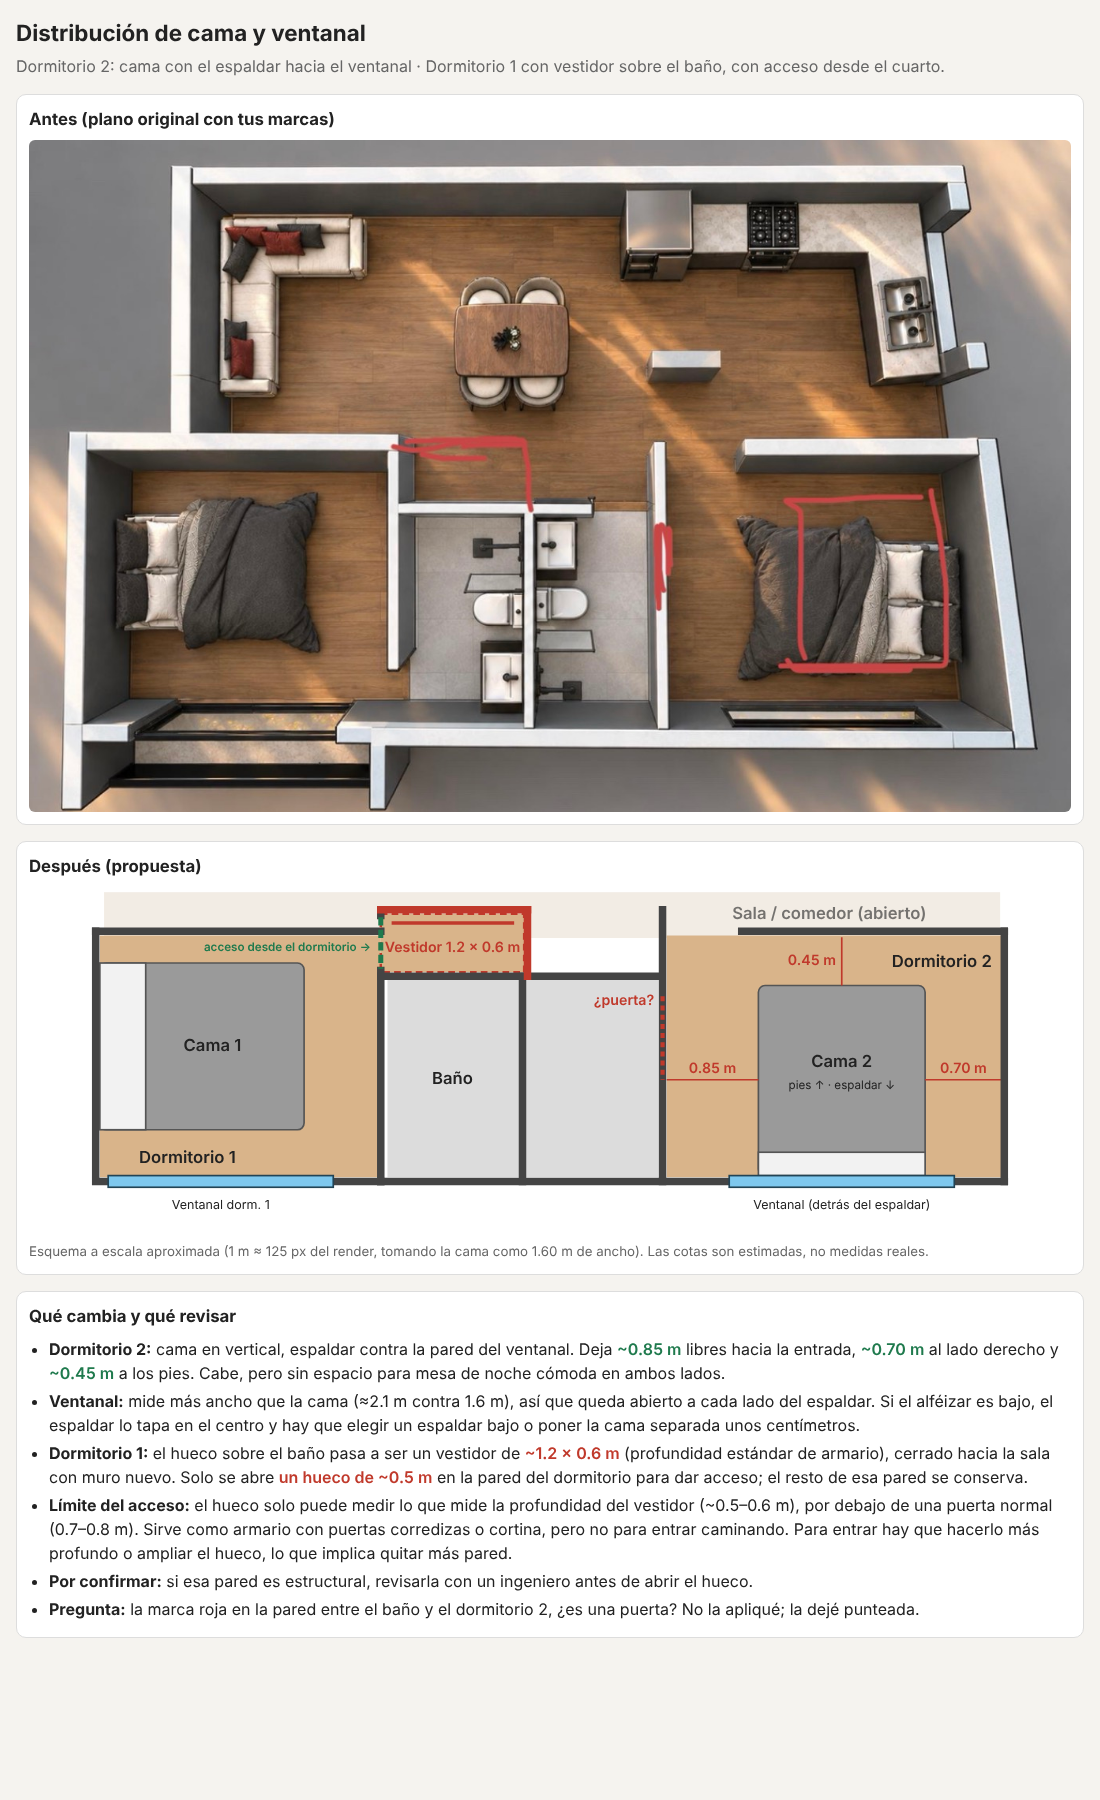
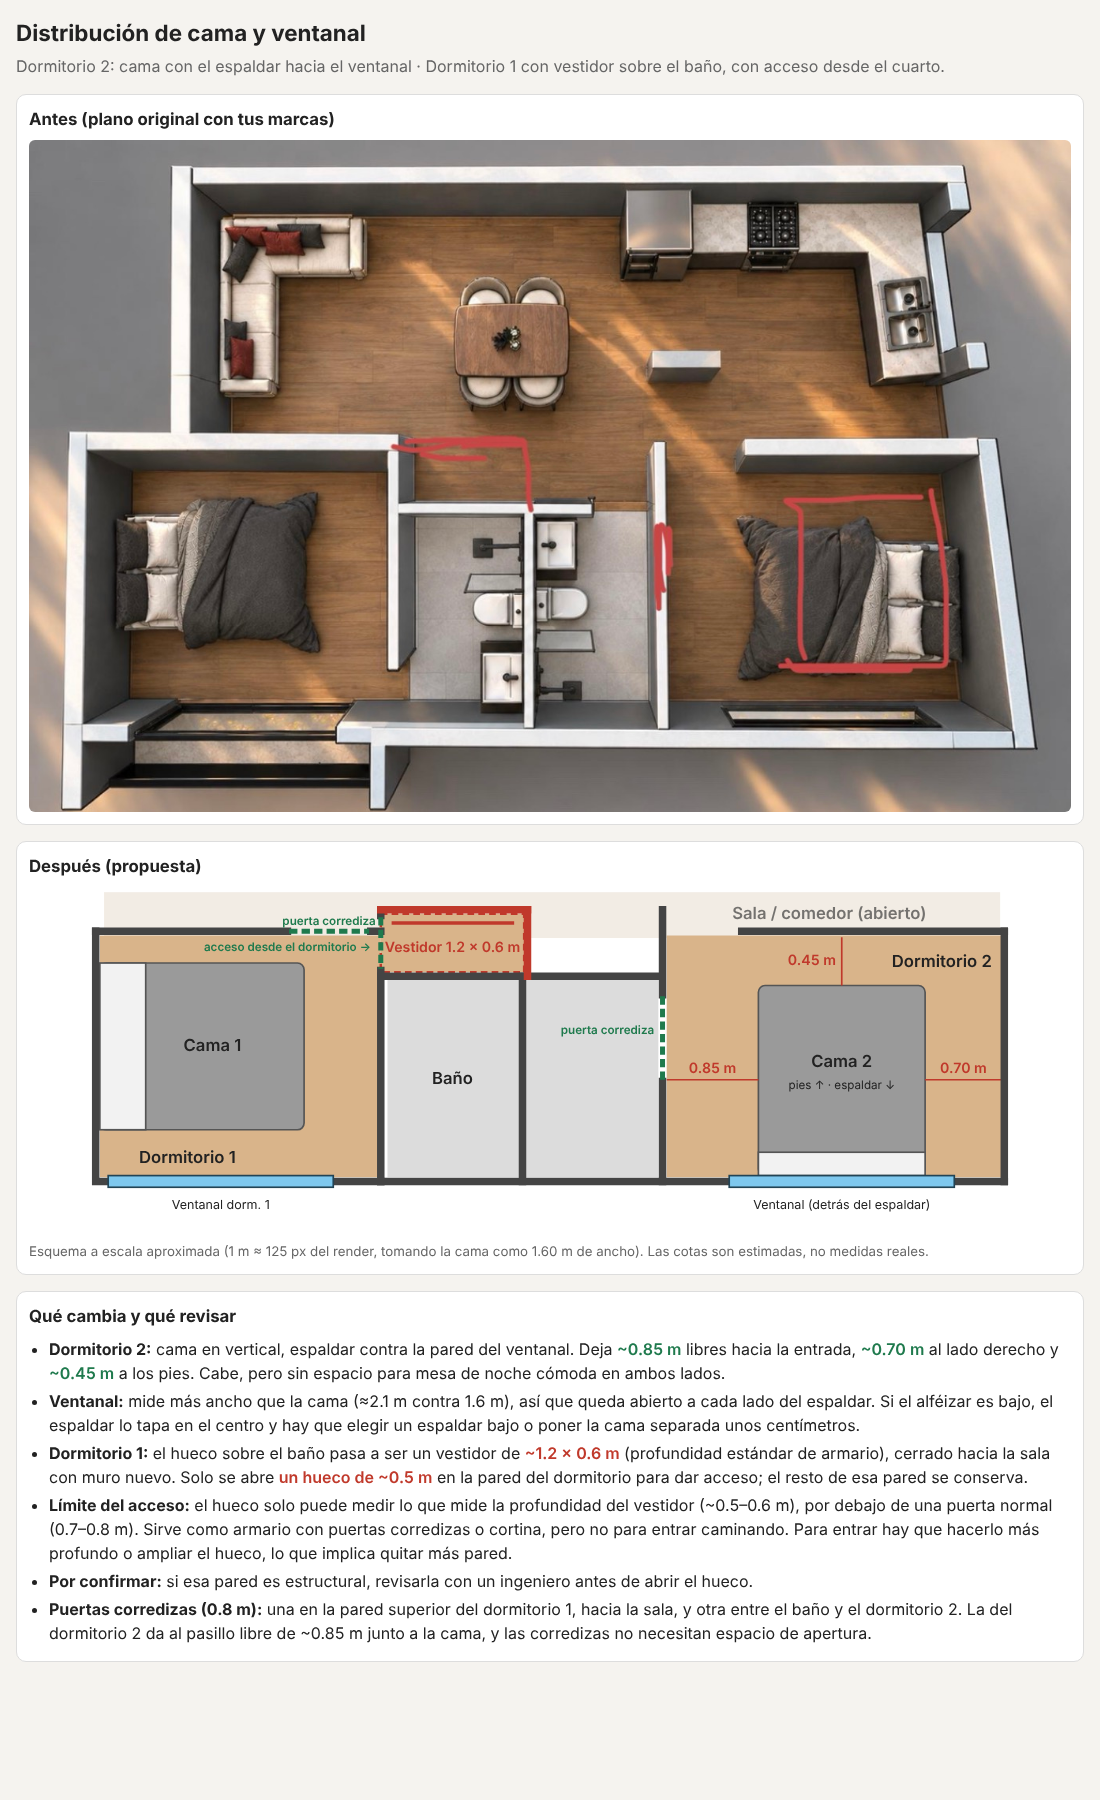
Agregar puertas corredizas en dormitorio 1 y entre baño y dormitorio 2
Claude-Session: https://claude.ai/code/session_01FjBeNf4WjH2KP9gBJAno4x

diff --git a/index.html b/index.html
@@ -95,7 +95,8 @@
       <g class="wall">
         <!-- dormitorio 1: izquierda, arriba, abajo -->
         <polyline points="120,412 120,712 462,712"/>
-        <line x1="120" y1="412" x2="462" y2="412"/>
+        <line x1="120" y1="412" x2="350" y2="412"/>
+        <line x1="450" y1="412" x2="462" y2="412"/>
         <!-- pared dorm1 / baño: se conserva solo el tramo bajo el hueco del vestidor -->
         <line x1="462" y1="386" x2="462" y2="393"/>
         <line x1="462" y1="459" x2="462" y2="712"/>
@@ -104,7 +105,8 @@
         <!-- divisor del baño -->
         <line x1="632" y1="466" x2="632" y2="712"/>
         <!-- pared baño / dormitorio 2 -->
-        <line x1="800" y1="386" x2="800" y2="712"/>
+        <line x1="800" y1="386" x2="800" y2="488"/>
+        <line x1="800" y1="592" x2="800" y2="712"/>
         <line x1="462" y1="712" x2="1210" y2="712"/>
         <!-- dormitorio 2: derecha y arriba (con entrada 805-895) -->
         <line x1="1210" y1="412" x2="1210" y2="712"/>
@@ -125,9 +127,11 @@
       <rect x="135" y="705" width="270" height="14" fill="#7ec8ee" stroke="#245" stroke-width="2"/>
       <text x="270" y="745" text-anchor="middle" font-size="15">Ventanal dorm. 1</text>
 
-      <!-- Marca sin instrucción -->
-      <line x1="800" y1="490" x2="800" y2="590" stroke="var(--new)" stroke-width="5" stroke-dasharray="6 5"/>
-      <text x="790" y="500" text-anchor="end" font-size="14" class="dimt">¿puerta?</text>
+      <!-- Puertas corredizas -->
+      <line x1="352" y1="412" x2="448" y2="412" stroke="var(--ok)" stroke-width="6" stroke-dasharray="10 5"/>
+      <text x="400" y="404" text-anchor="middle" font-size="14" font-weight="600" style="fill:var(--ok)">puerta corrediza</text>
+      <line x1="800" y1="490" x2="800" y2="590" stroke="var(--ok)" stroke-width="6" stroke-dasharray="10 5"/>
+      <text x="790" y="535" text-anchor="end" font-size="14" font-weight="600" style="fill:var(--ok)">puerta corrediza</text>
     </svg>
     <small>Esquema a escala aproximada (1 m ≈ 125 px del render, tomando la cama como 1.60 m de ancho). Las cotas son estimadas, no medidas reales.</small>
   </section>
@@ -140,7 +144,7 @@
       <li><b>Dormitorio 1:</b> el hueco sobre el baño pasa a ser un vestidor de <span class="tag">~1.2 × 0.6 m</span> (profundidad estándar de armario), cerrado hacia la sala con muro nuevo. Solo se abre <span class="tag">un hueco de ~0.5 m</span> en la pared del dormitorio para dar acceso; el resto de esa pared se conserva.</li>
       <li><b>Límite del acceso:</b> el hueco solo puede medir lo que mide la profundidad del vestidor (~0.5–0.6 m), por debajo de una puerta normal (0.7–0.8 m). Sirve como armario con puertas corredizas o cortina, pero no para entrar caminando. Para entrar hay que hacerlo más profundo o ampliar el hueco, lo que implica quitar más pared.</li>
       <li><b>Por confirmar:</b> si esa pared es estructural, revisarla con un ingeniero antes de abrir el hueco.</li>
-      <li><b>Pregunta:</b> la marca roja en la pared entre el baño y el dormitorio 2, ¿es una puerta? No la apliqué; la dejé punteada.</li>
+      <li><b>Puertas corredizas (0.8 m):</b> una en la pared superior del dormitorio 1, hacia la sala, y otra entre el baño y el dormitorio 2. La del dormitorio 2 da al pasillo libre de ~0.85 m junto a la cama, y las corredizas no necesitan espacio de apertura.</li>
     </ul>
   </section>
 </main>
